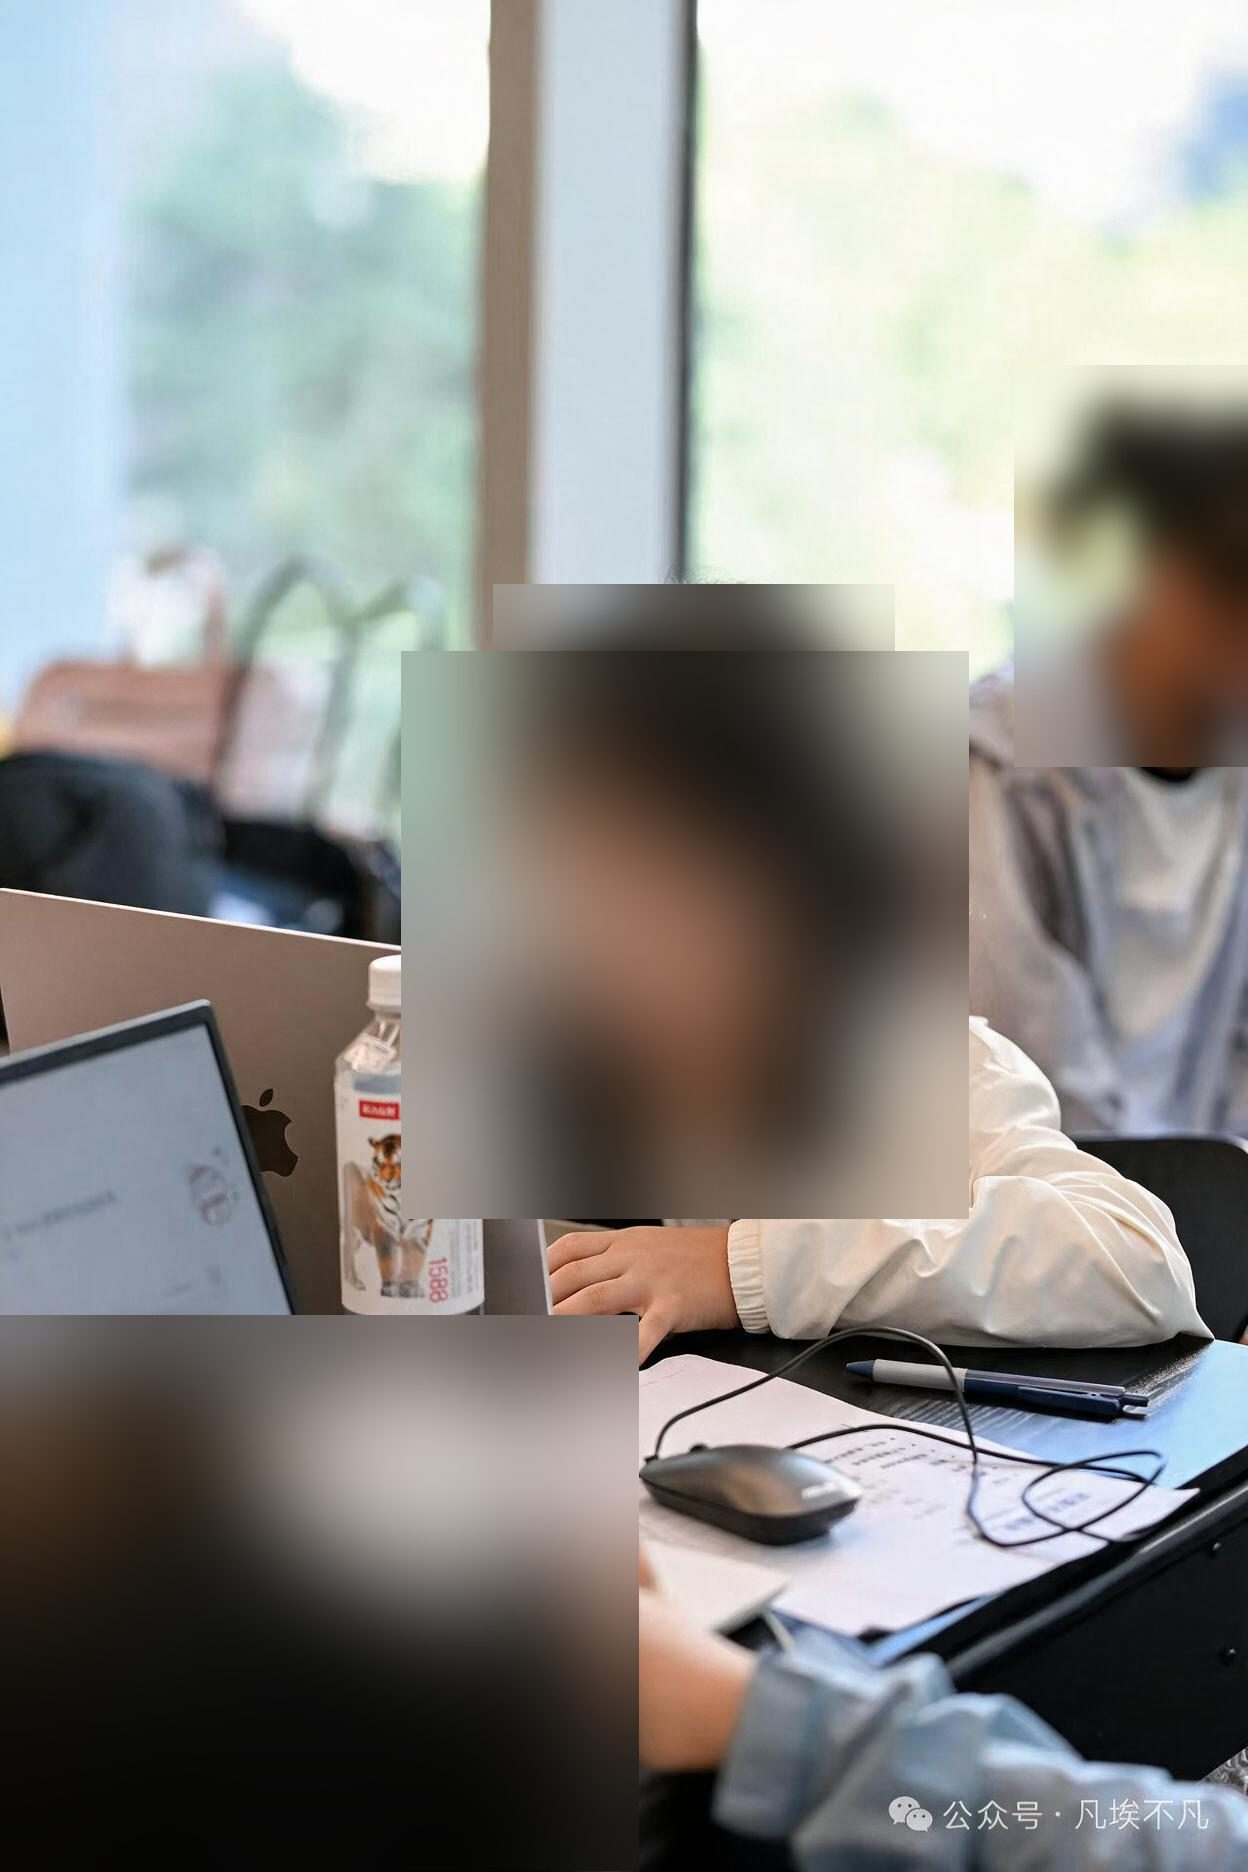
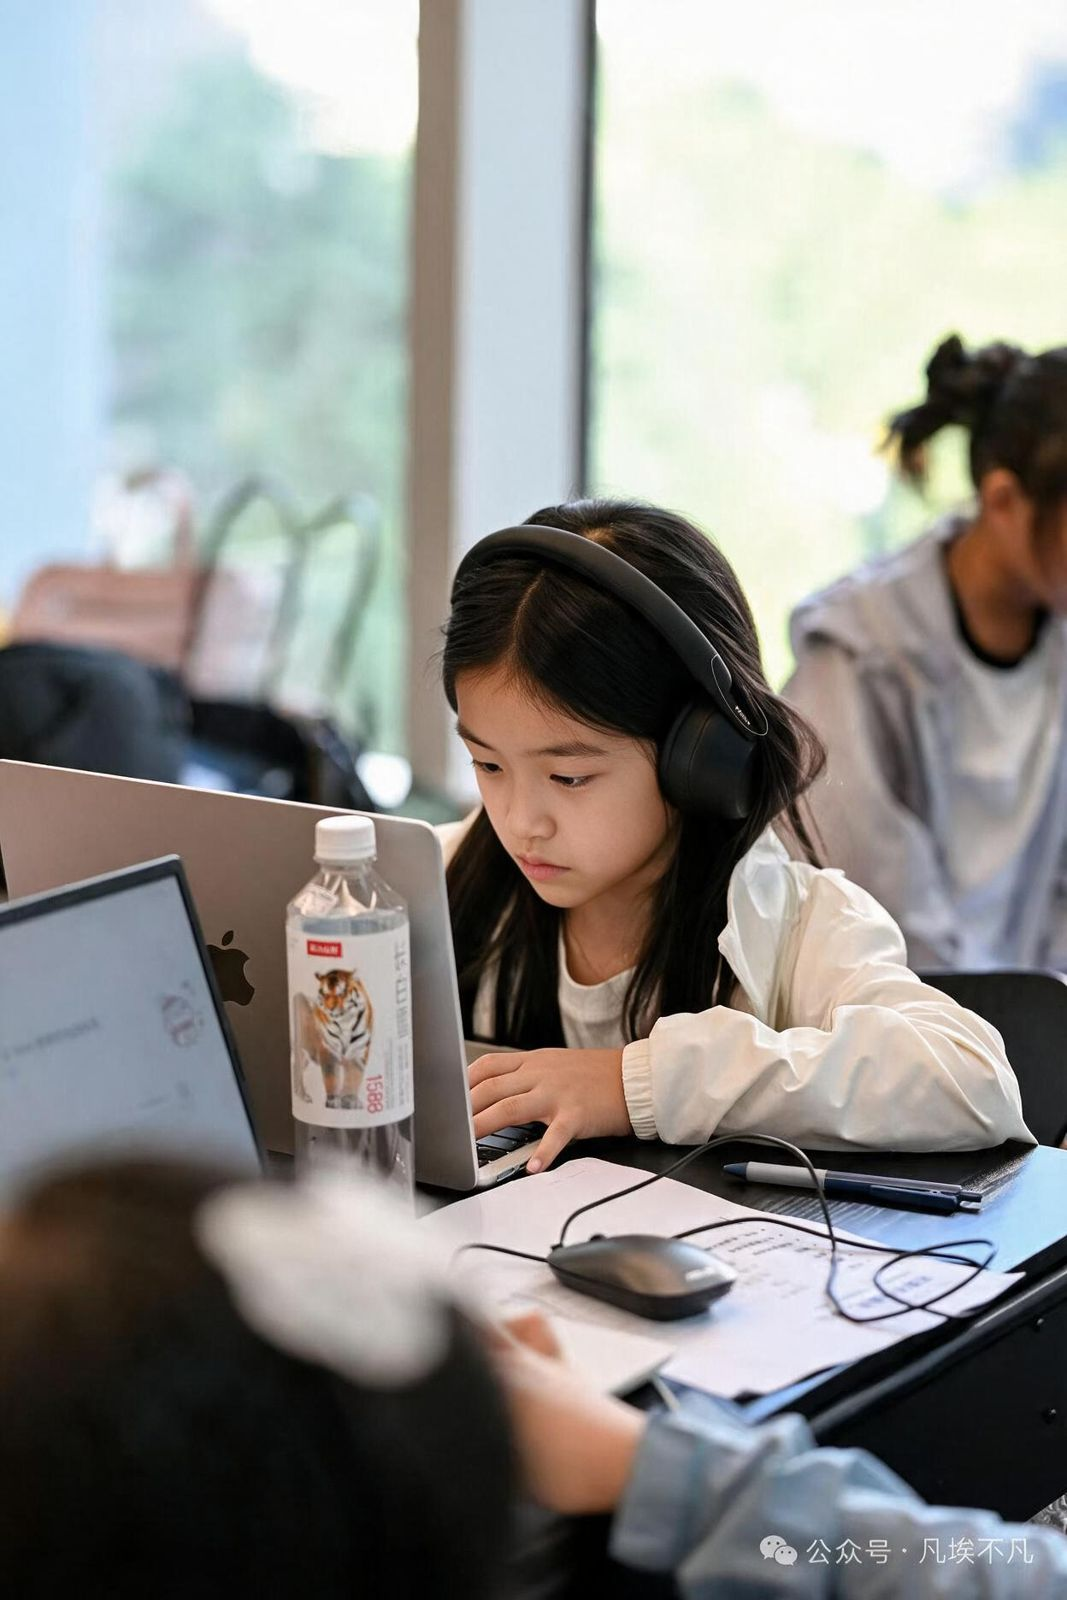
Use original activity photos; bring the 2-mic ICA visualizer back as a main section

diff --git a/index.html b/index.html
@@ -25,7 +25,7 @@
   <main class="page">
 
     <nav class="toc box" aria-label="On this page">
-      <a href="#about">About</a> · <a href="#recording">Recording</a> · <a href="#editing">Editing</a> · <a href="#learning">Learning</a> · <a href="#demo">Demo</a> · <a href="#feedback">Where students got stuck</a> · <a href="#limits">Limits</a>
+      <a href="#about">About</a> · <a href="#recording">Recording</a> · <a href="#editing">Editing</a> · <a href="#learning">Learning</a> · <a href="#viz">Visualizer</a> · <a href="#demo">Demo</a> · <a href="#feedback">Where students got stuck</a> · <a href="#limits">Limits</a>
     </nav>
 
     <section class="intro" id="about">
@@ -35,7 +35,7 @@
     </section>
 
     <section class="chapter" id="recording">
-      <figure class="lead-photo"><img src="images/activity/recording-station.jpg" alt="A student with headphones holds a boom-pole microphone on a high-speed train platform; face blurred" style="object-position: 40% 45%"></figure>
+      <figure class="lead-photo"><img src="images/activity/recording-station.jpg" alt="A student with headphones holds a boom-pole microphone on a high-speed train platform" style="object-position: 40% 45%"></figure>
       <div class="chapter-text">
         <p class="kicker">1 · Recording</p>
         <h2>Going out with a boom pole</h2>
@@ -67,7 +67,7 @@
     </section>
 
     <section class="chapter" id="learning">
-      <figure class="lead-photo"><img src="images/activity/activity-laptop.jpg" alt="A student with headphones works on a laptop; faces blurred" style="object-position: 50% 45%"></figure>
+      <figure class="lead-photo"><img src="images/activity/activity-laptop.jpg" alt="A student with headphones works on a laptop" style="object-position: 50% 45%"></figure>
       <div class="chapter-text">
         <p class="kicker">3 · Learning</p>
         <h2>How I explained ICA</h2>
@@ -89,38 +89,9 @@
   <path d="M150 60 h30 m-8 -7 l8 7 l-8 7" stroke="#c9d1dc" stroke-width="2" fill="none"/>
   <g transform="translate(180,0)"><g transform="scale(0.95)"><g transform="translate(0,10)"><polyline points="0,12.0 2,5.7 4,4.2 6,8.6 8,15.5 10,14.0 12,13.5 14,12.0 16,10.4 18,10.1 20,11.2 22,12.9 24,14.0 26,13.5 28,11.9 30,5.6 32,4.3 34,8.8 36,15.8 38,19.9 40,13.5 42,11.9 44,10.4 46,10.1 48,11.2 50,13.0 52,14.0 54,13.5 56,11.9 58,10.4 60,4.3 62,9.1 64,16.0 66,19.9 68,17.8 70,11.8 72,10.3 74,10.1 76,11.3 78,13.0 80,14.0 82,13.4 84,11.8 86,10.3 88,10.1 90,9.3 92,16.2 94,20.0 96,17.6 98,11.1 100,10.3 102,10.1 104,11.4 106,13.1 108,14.0 110,13.4 112,11.7 114,10.3 116,10.1 118,11.4 120,16.5" fill="none" stroke="#ffb347" stroke-width="1.6"/></g><g transform="translate(0,48)"><polyline points="0,12.0 2,9.6 4,7.5 6,5.9 8,5.1 10,5.1 12,6.0 14,7.5 16,9.7 18,12.1 20,14.5 22,16.6 24,18.1 26,18.9 28,18.9 30,18.0 32,16.4 34,14.3 36,11.9 38,9.5 40,7.4 42,5.9 44,5.1 46,5.1 48,6.0 50,7.6 52,9.8 54,12.2 56,14.6 58,16.6 60,18.2 62,18.9 64,18.9 66,18.0 68,16.3 70,14.2 72,11.8 74,9.4 76,7.3 78,5.8 80,5.1 82,5.2 84,6.1 86,7.7 88,9.9 90,12.3 92,14.7 94,16.7 96,18.2 98,18.9 100,18.8 102,17.9 104,16.2 106,14.1 108,11.6 110,9.3 112,7.2 114,5.8 116,5.1 118,5.2 120,6.1" fill="none" stroke="#3fd0c9" stroke-width="1.6"/></g><g transform="translate(0,86)"><polyline points="0,12.0 2,10.2 4,12.9 6,16.7 8,8.8 10,6.0 12,17.9 14,17.5 16,4.3 18,8.5 20,19.9 22,13.1 24,5.9 26,12.5 28,14.9 30,11.5 32,11.5 34,13.3 36,14.9 38,7.7 40,8.4 42,19.1 44,14.5 46,3.2 48,11.6 50,20.6 52,10.3 54,5.5 56,14.6 58,15.4 60,10.3 62,11.5 64,12.9 66,13.2 68,7.8 70,10.9 72,19.1 74,11.4 76,3.5 78,14.9 80,20.0 82,7.3 84,6.2 86,16.9 88,15.0 90,8.7 92,11.3 94,12.2 96,12.1 98,8.7 100,12.9 102,18.0 104,8.9 106,5.0 108,17.6 110,18.1 112,4.8 114,8.1 116,18.9 118,13.4 120,7.2" fill="none" stroke="#ff6fae" stroke-width="1.6"/></g></g></g></svg></figure><h3><span class="n">3</span> Each sound comes out on its own</h3><p>When it stops, each output holds one sound. It can come out in a different order, quieter, or flipped upside down, so we still listen to name them.</p></li>
       </ol>
-        <div class="pca" id="pca">
-          <h3>PCA vs ICA on the same mix</h3>
-          <p>I also ran PCA on the same three mic recordings. PCA makes its outputs uncorrelated, which only means they don’t rise and fall together on average. Independent is a stronger condition: knowing one output tells you nothing about the other. That is what ICA looks for, and it is why PCA leaves the recordings partly blended.</p>
-          <div class="pca-grid">
-            <div><h4>PCA outputs</h4><div id="pca-out" class="cmp-list"></div></div>
-            <div><h4>ICA outputs</h4><div id="ica-cmp-out" class="cmp-list"></div></div>
-          </div>
-          <p class="muted small" id="pca-note" role="status"></p>
-        </div>
-      </div>
-    </section>
-
-    <section class="chapter demo-chapter" id="demo">
-      <div class="chapter-text wide">
-        <p class="kicker">4 · Demo</p>
-        <h2>Original, mixed, restored</h2>
-        <p>This is the part students used on the web. Three of their recordings are mixed by the computer with a fixed table, then FastICA unmixes them. Everything runs in your browser.</p>
-      </div>
-      <div class="oms" id="oms" role="group" aria-label="Original, mixed and restored players">
-        <div class="oms-head"></div><div class="oms-head">1</div><div class="oms-head">2</div><div class="oms-head">3</div>
-        <div class="oms-label">Original</div><div id="oms-o0"></div><div id="oms-o1"></div><div id="oms-o2"></div>
-        <div class="oms-label">Mixed (3 mics)</div><div id="oms-m0"></div><div id="oms-m1"></div><div id="oms-m2"></div>
-        <div class="oms-label">Restored by ICA</div><div id="oms-r0"></div><div id="oms-r1"></div><div id="oms-r2"></div>
-      </div>
-      <p class="muted small" id="oms-note" role="status"></p>
-
-      <details class="box demo-wrap" id="full-demo">
-        <summary>Try the full interactive demo</summary>
-
-    <section class="box" id="viz">
-      <h2>The ICA visualizer</h2>
-      <p>Two sounds, two mics. Each moment of sound becomes a dot. Move the dots to the middle, make the cloud round, then turn the dial until the meter peaks.</p>
+        <section class="box viz-main" id="viz">
+      <h3 class="viz-h">Try it with two sounds</h3>
+      <p>Two sounds, two mics. Every dot is one moment of sound. Follow the steps: mix the sounds, move the dots to the middle, make the cloud round, then turn the dial until the meter is highest. Or let the computer turn it, one round at a time.</p>
       <div class="pick">
         <label>Sound A <select id="viz-sa"></select></label>
         <label>Sound B <select id="viz-sb"></select></label>
@@ -163,6 +134,36 @@
         <button type="button" id="viz-next">Next</button>
       </div>
     </section>
+        <div class="pca" id="pca">
+          <h3>PCA vs ICA on the same mix</h3>
+          <p>I also ran PCA on the same three mic recordings. PCA makes its outputs uncorrelated, which only means they don’t rise and fall together on average. Independent is a stronger condition: knowing one output tells you nothing about the other. That is what ICA looks for, and it is why PCA leaves the recordings partly blended.</p>
+          <div class="pca-grid">
+            <div><h4>PCA outputs</h4><div id="pca-out" class="cmp-list"></div></div>
+            <div><h4>ICA outputs</h4><div id="ica-cmp-out" class="cmp-list"></div></div>
+          </div>
+          <p class="muted small" id="pca-note" role="status"></p>
+        </div>
+      </div>
+    </section>
+
+    <section class="chapter demo-chapter" id="demo">
+      <div class="chapter-text wide">
+        <p class="kicker">4 · Demo</p>
+        <h2>Original, mixed, restored</h2>
+        <p>This is the part students used on the web. Three of their recordings are mixed by the computer with a fixed table, then FastICA unmixes them. Everything runs in your browser.</p>
+      </div>
+      <div class="oms" id="oms" role="group" aria-label="Original, mixed and restored players">
+        <div class="oms-head"></div><div class="oms-head">1</div><div class="oms-head">2</div><div class="oms-head">3</div>
+        <div class="oms-label">Original</div><div id="oms-o0"></div><div id="oms-o1"></div><div id="oms-o2"></div>
+        <div class="oms-label">Mixed (3 mics)</div><div id="oms-m0"></div><div id="oms-m1"></div><div id="oms-m2"></div>
+        <div class="oms-label">Restored by ICA</div><div id="oms-r0"></div><div id="oms-r1"></div><div id="oms-r2"></div>
+      </div>
+      <p class="muted small" id="oms-note" role="status"></p>
+
+      <details class="box demo-wrap" id="full-demo">
+        <summary>Try the full interactive demo</summary>
+
+    
 
     <section class="box" id="school">
       <h2>The full demo: three sounds, three mics</h2>

diff --git a/ica.js b/ica.js
@@ -1471,7 +1471,7 @@ var EXAMPLE_CLIPS = [
       root.dispatchEvent(new Event('resize'));
       setTimeout(function () { if (L.res) labRender(true); if (T.Z) tryUpdate(); }, 200);
     });
-    if (/[?&](autorun=1\b|labround=|vizstep=)/.test(params) || /^#(viz|school|try|lab|game)$/.test(root.location.hash)) d.open = true;
+    if (/[?&](autorun=1\b|labround=)/.test(params) || /^#(school|try|lab|game)$/.test(root.location.hash)) d.open = true;
   }
 
   function init() {

diff --git a/style.css b/style.css
@@ -534,3 +534,5 @@ canvas.wave.small { height: 38px; }
   .oms-label { margin-top: 8px; }
   .ed-wave { grid-template-columns: 1fr; gap: 2px; }
 }
+.viz-main { margin-top: 30px; }
+.viz-main .viz-h { margin-top: 0; font-size: clamp(20px, 2.4vw, 26px); }

diff --git a/README.md b/README.md
@@ -42,7 +42,7 @@ URL options: `?autorun=1` presses Separate once the sounds load (and reveals the
 
 ## Sounds
 
-`audio/students/` holds six real student recordings from the summer project (excerpts of up to 30 s, 128 kbps MP3, with spectrogram strips). The demo uses the three openly licensed example sounds below by default (not recorded by students); a toggle switches the full demo to three student recordings (first 9 s of each, mixed digitally). Photos in `images/activity/` have all faces blurred. Each is a 9-second excerpt, mono, 16 kHz, loudness-normalized, 40 kbps MP3. Full details are in `audio/credits.json`.
+`audio/students/` holds six real student recordings from the summer project (excerpts of up to 30 s, 128 kbps MP3, with spectrogram strips). The demo uses the three openly licensed example sounds below by default (not recorded by students); a toggle switches the full demo to three student recordings (first 9 s of each, mixed digitally). Photos in `images/activity/` are shared with consent. Each is a 9-second excerpt, mono, 16 kHz, loudness-normalized, 40 kbps MP3. Full details are in `audio/credits.json`.
 
 | File | Stands in for | Source | Author | License |
 |---|---|---|---|---|
